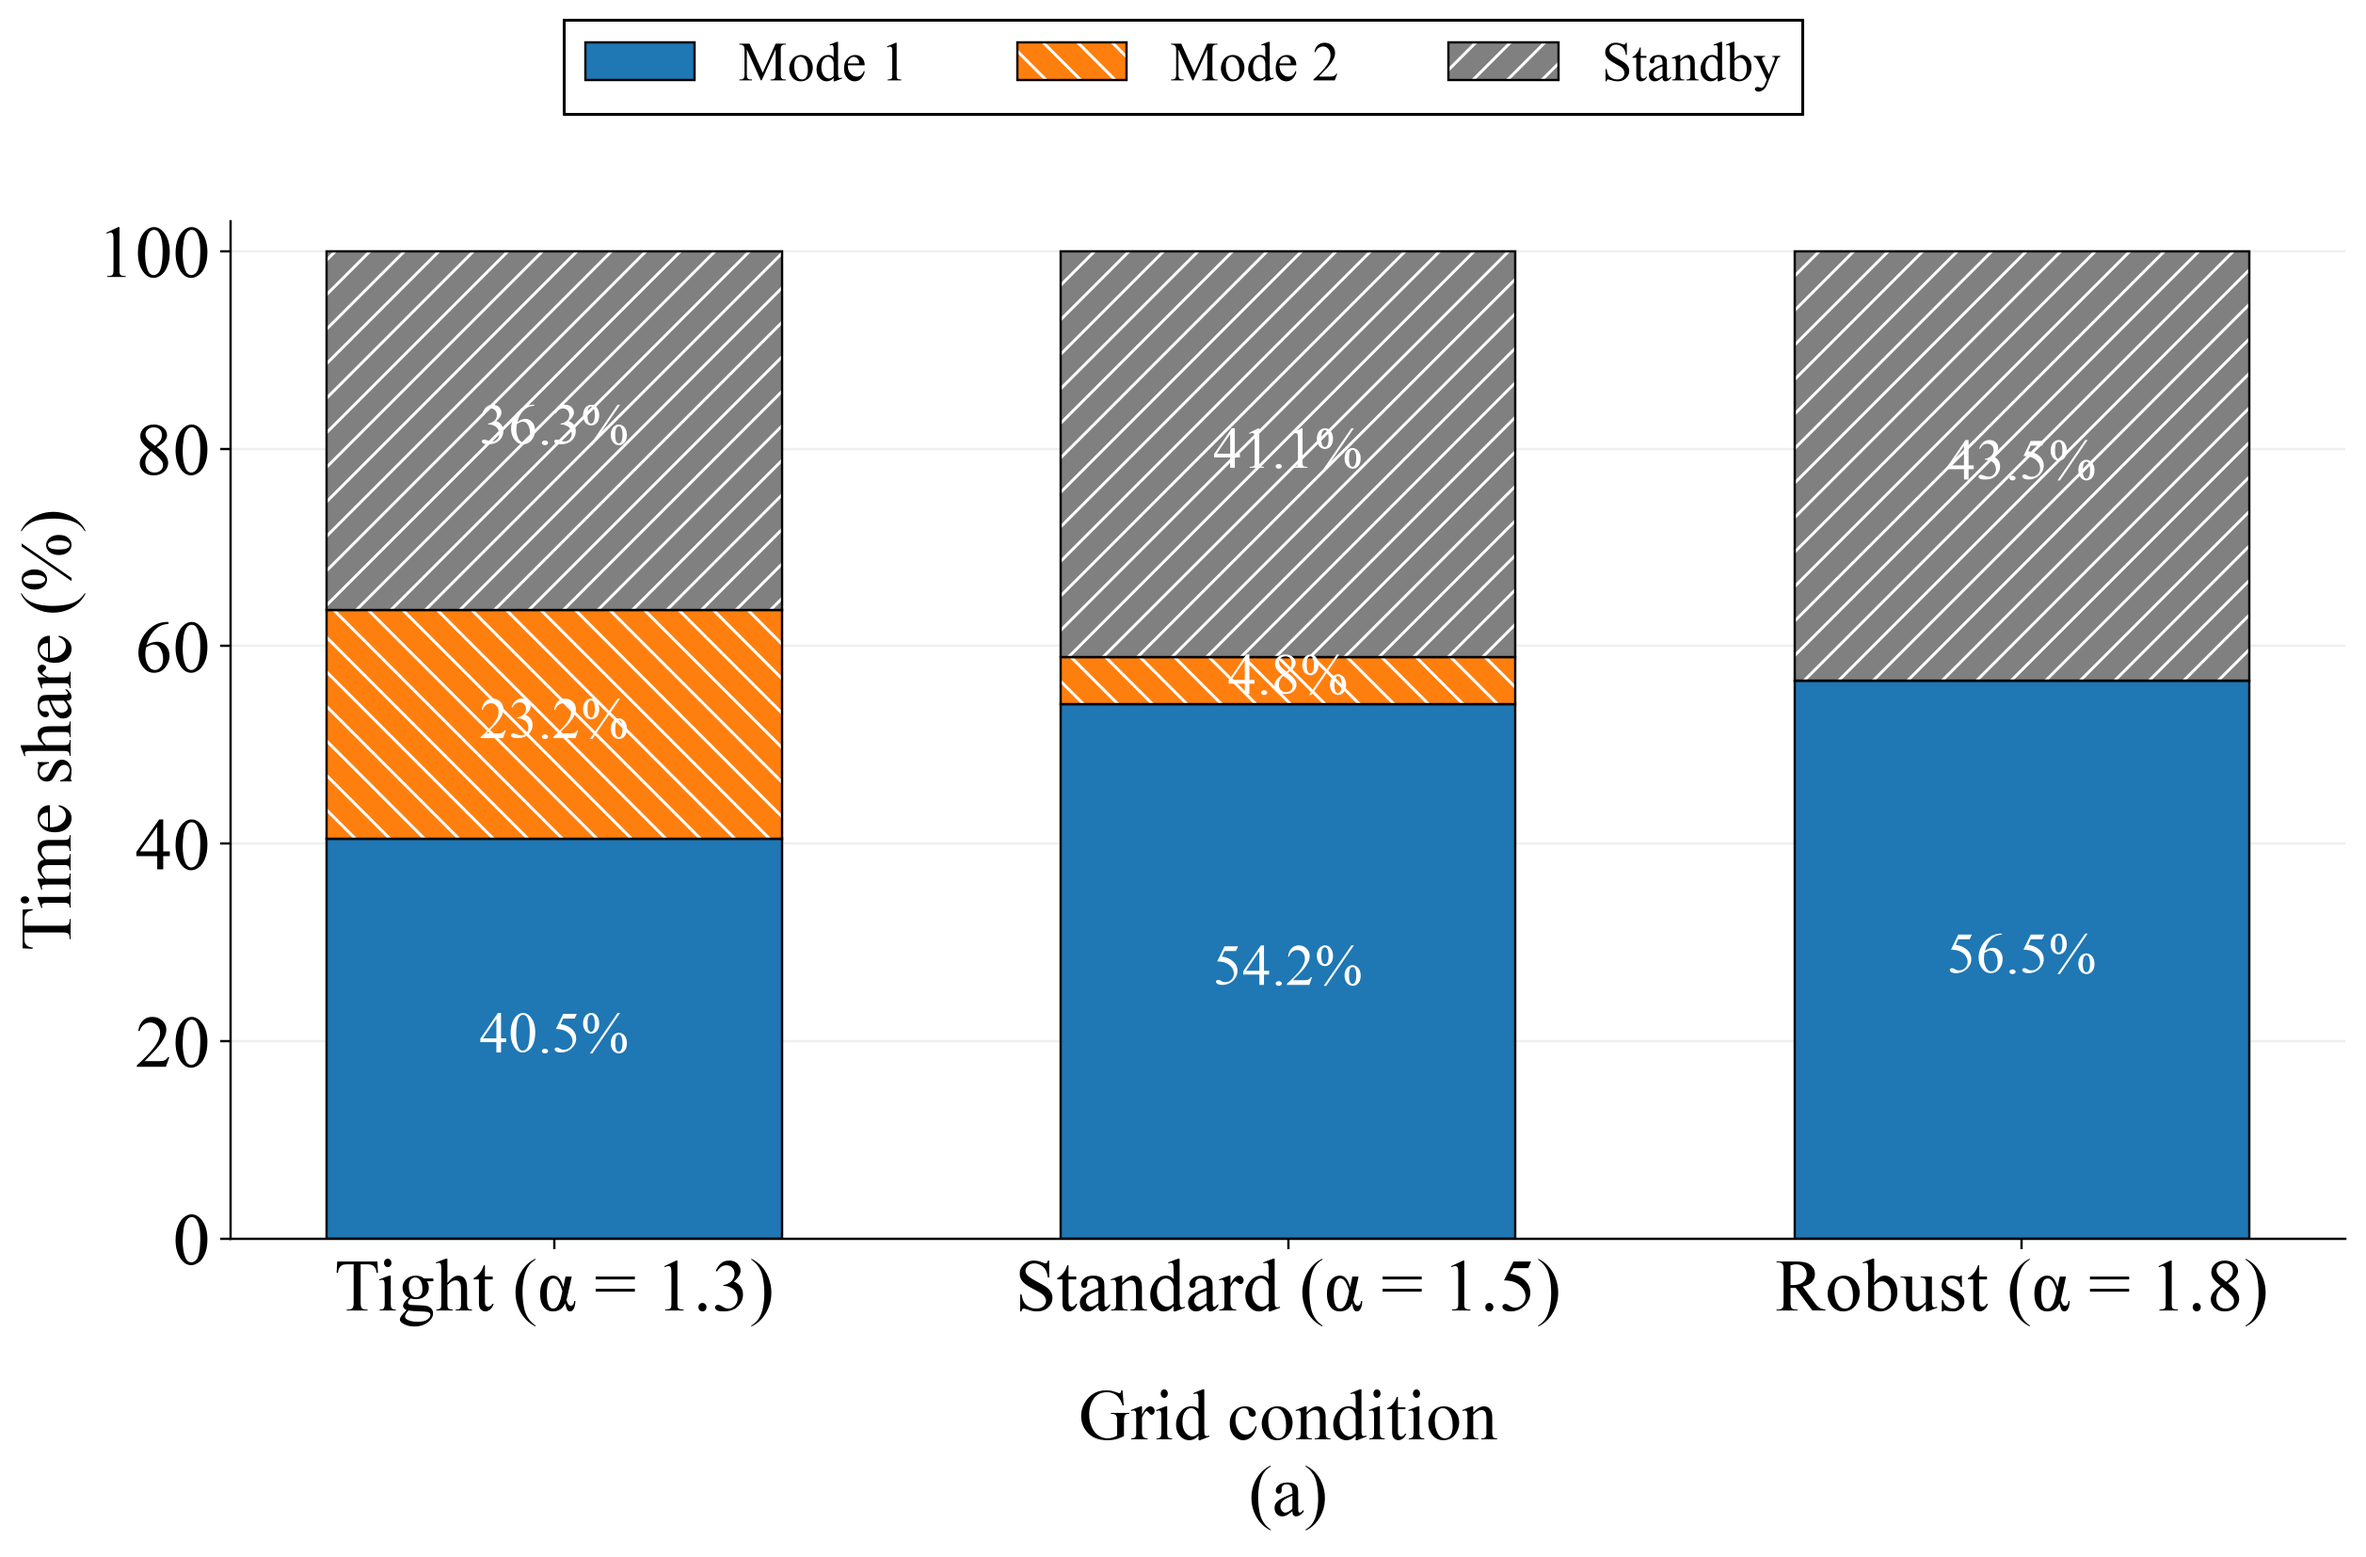
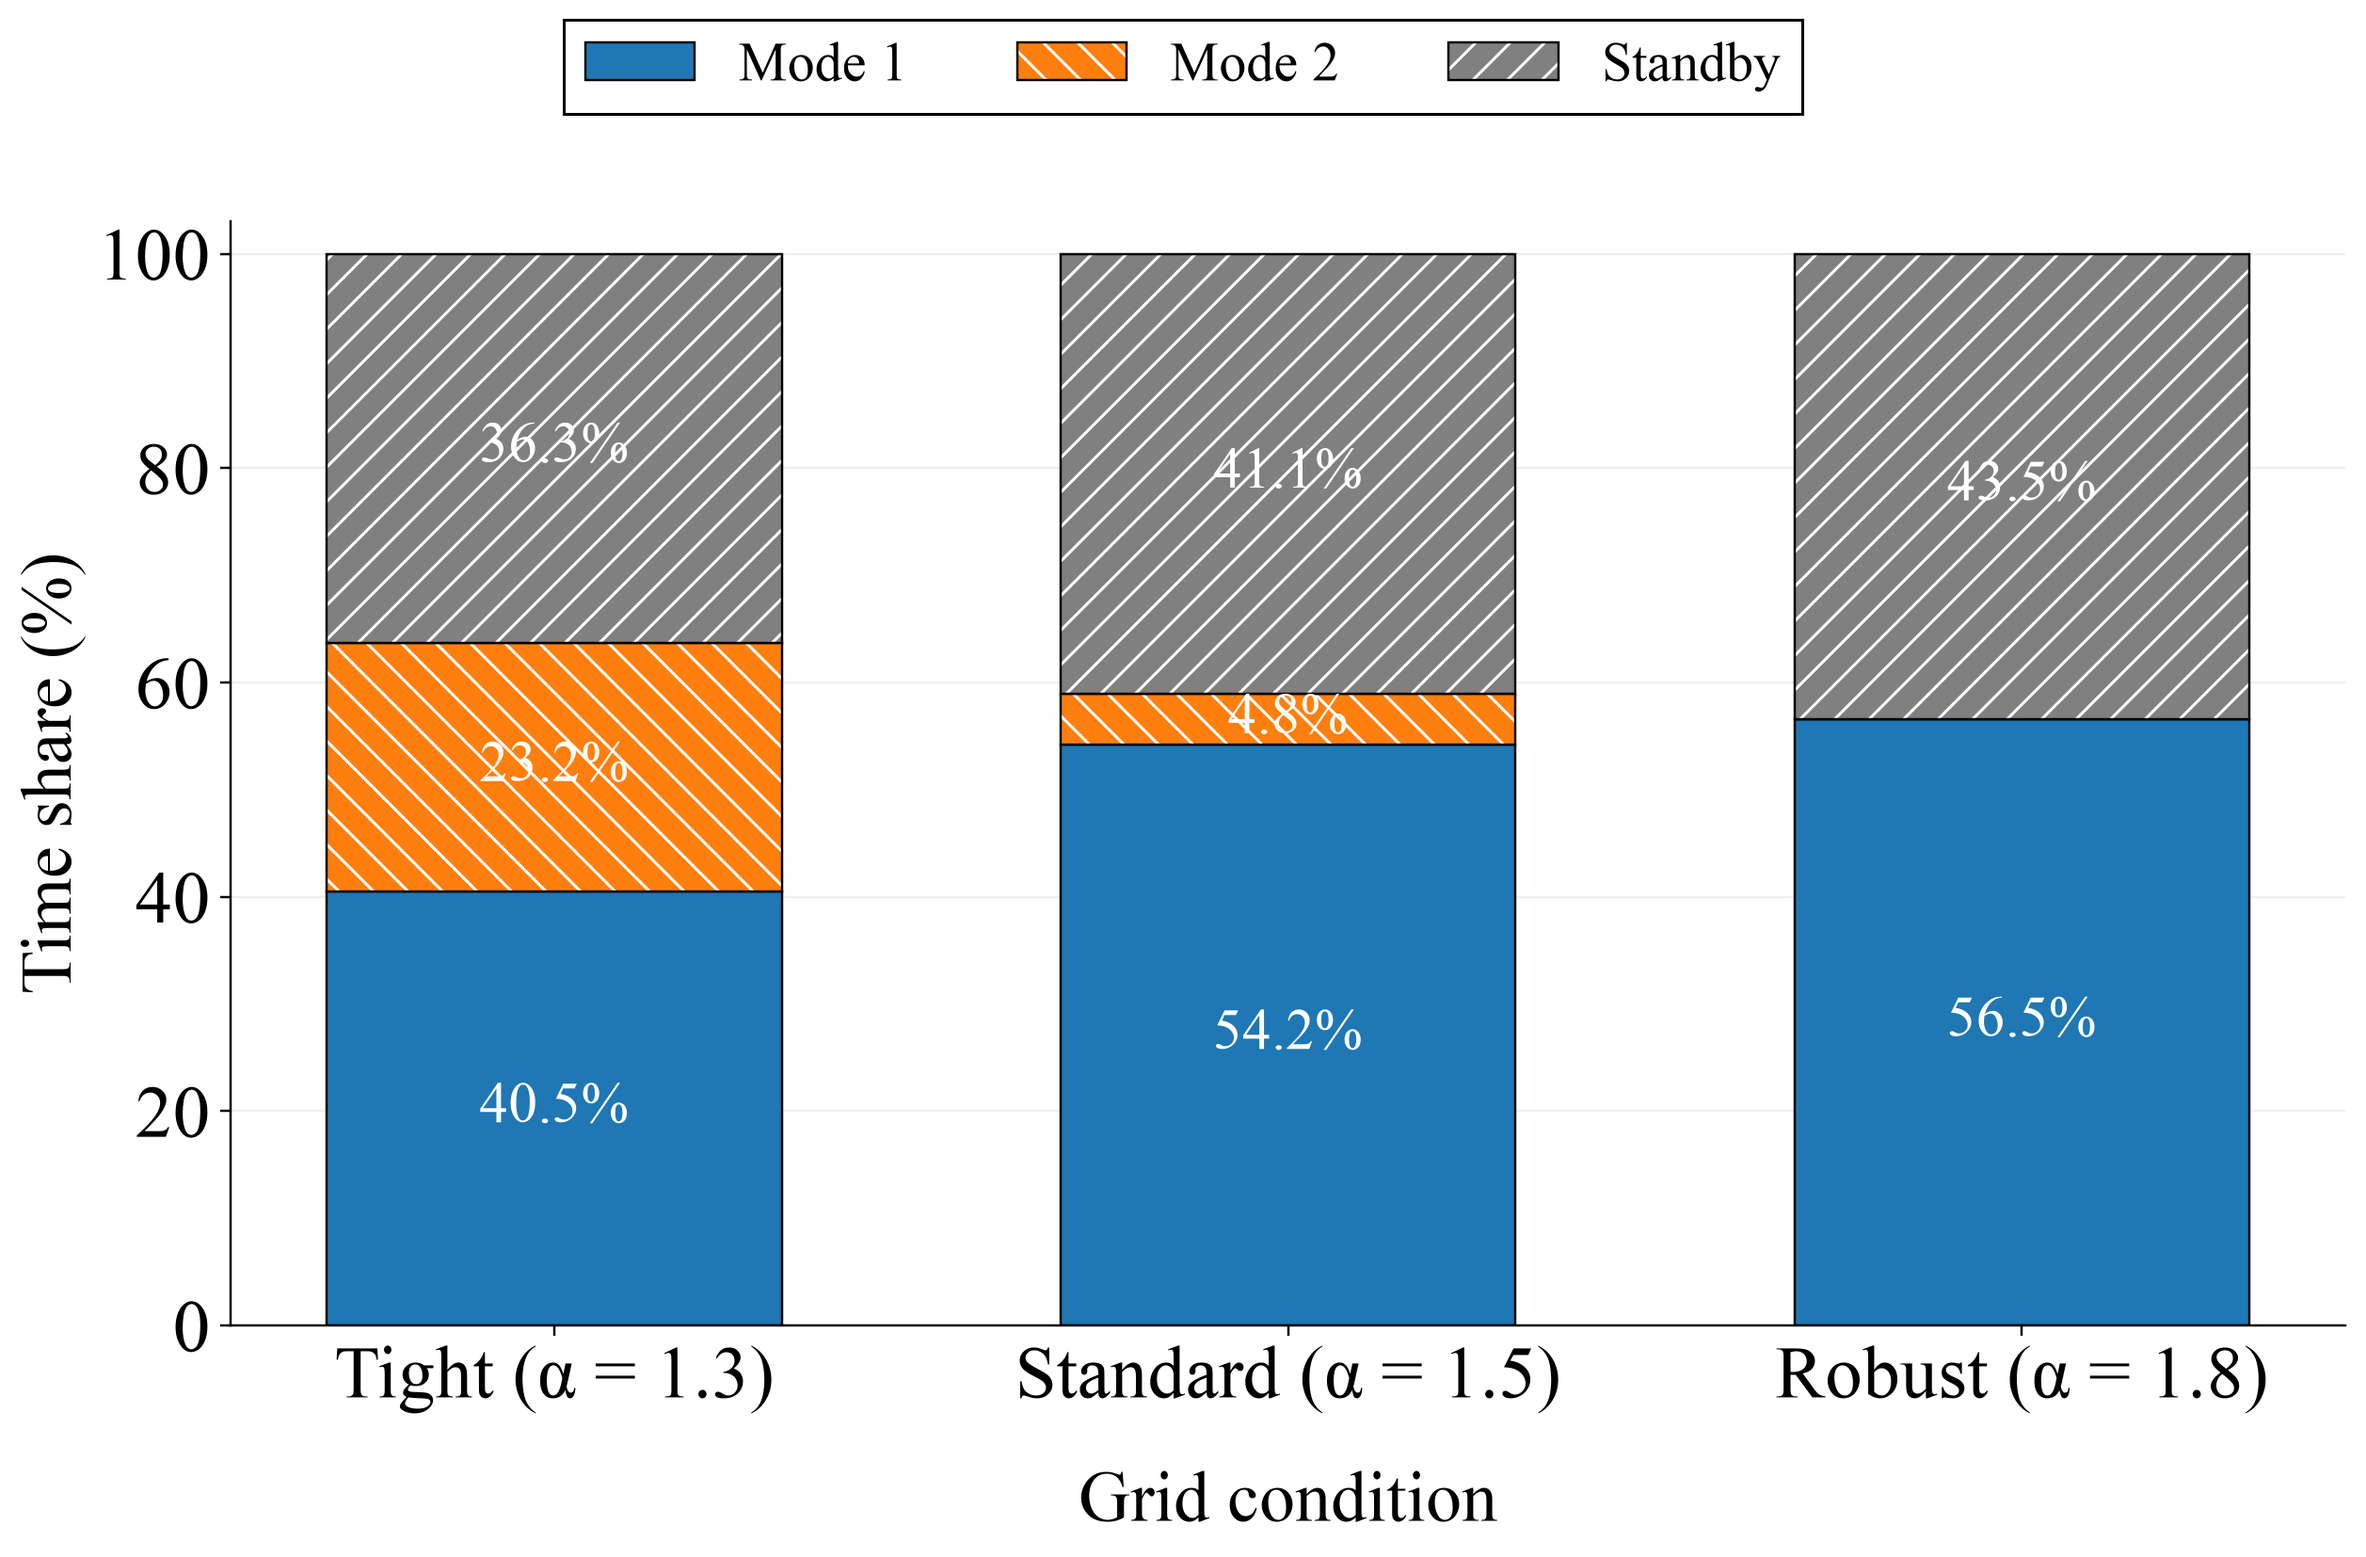
Remove panel label from Figure 7

diff --git a/figure7_operation_summary.py b/figure7_operation_summary.py
@@ -134,7 +134,7 @@ def plot_usage(summaries: tuple[ScenarioModeSummary, ...]) -> None:
     axis.set_xticks(x, labels)
     axis.set_ylim(0, 103)
     axis.set_ylabel("Time share (%)")
-    axis.set_xlabel("Grid condition\n(a)", labelpad=20)
+    axis.set_xlabel("Grid condition", labelpad=20)
     axis.grid(axis="y", alpha=0.2)
     axis.set_axisbelow(True)
     axis.spines[["top", "right"]].set_visible(False)
